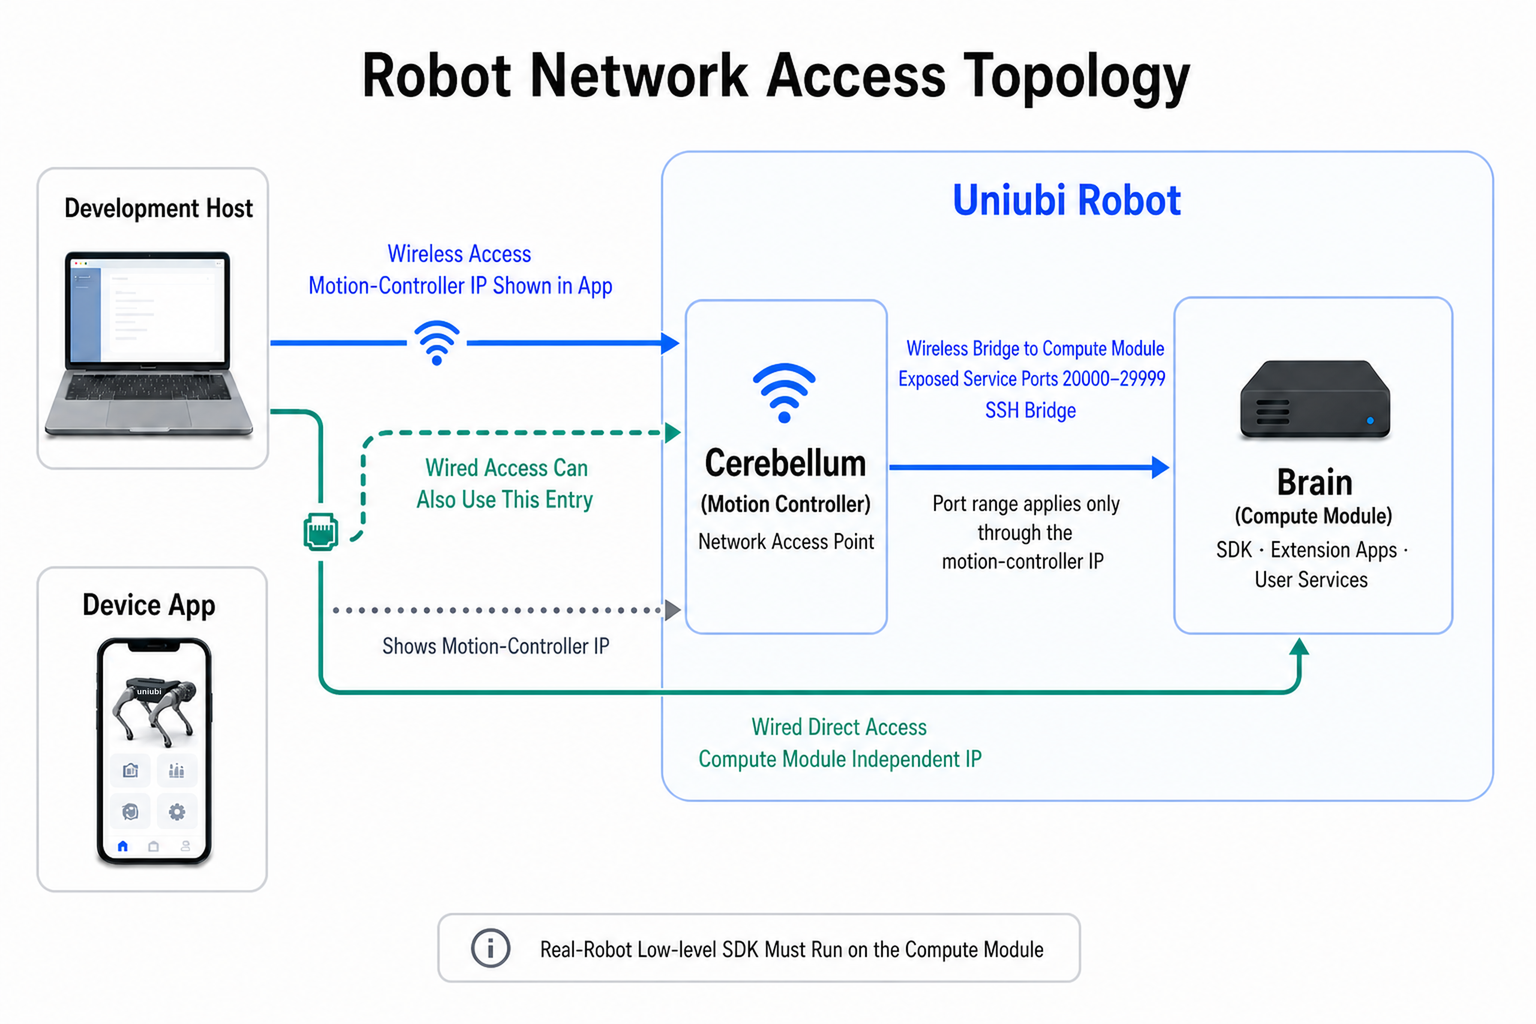
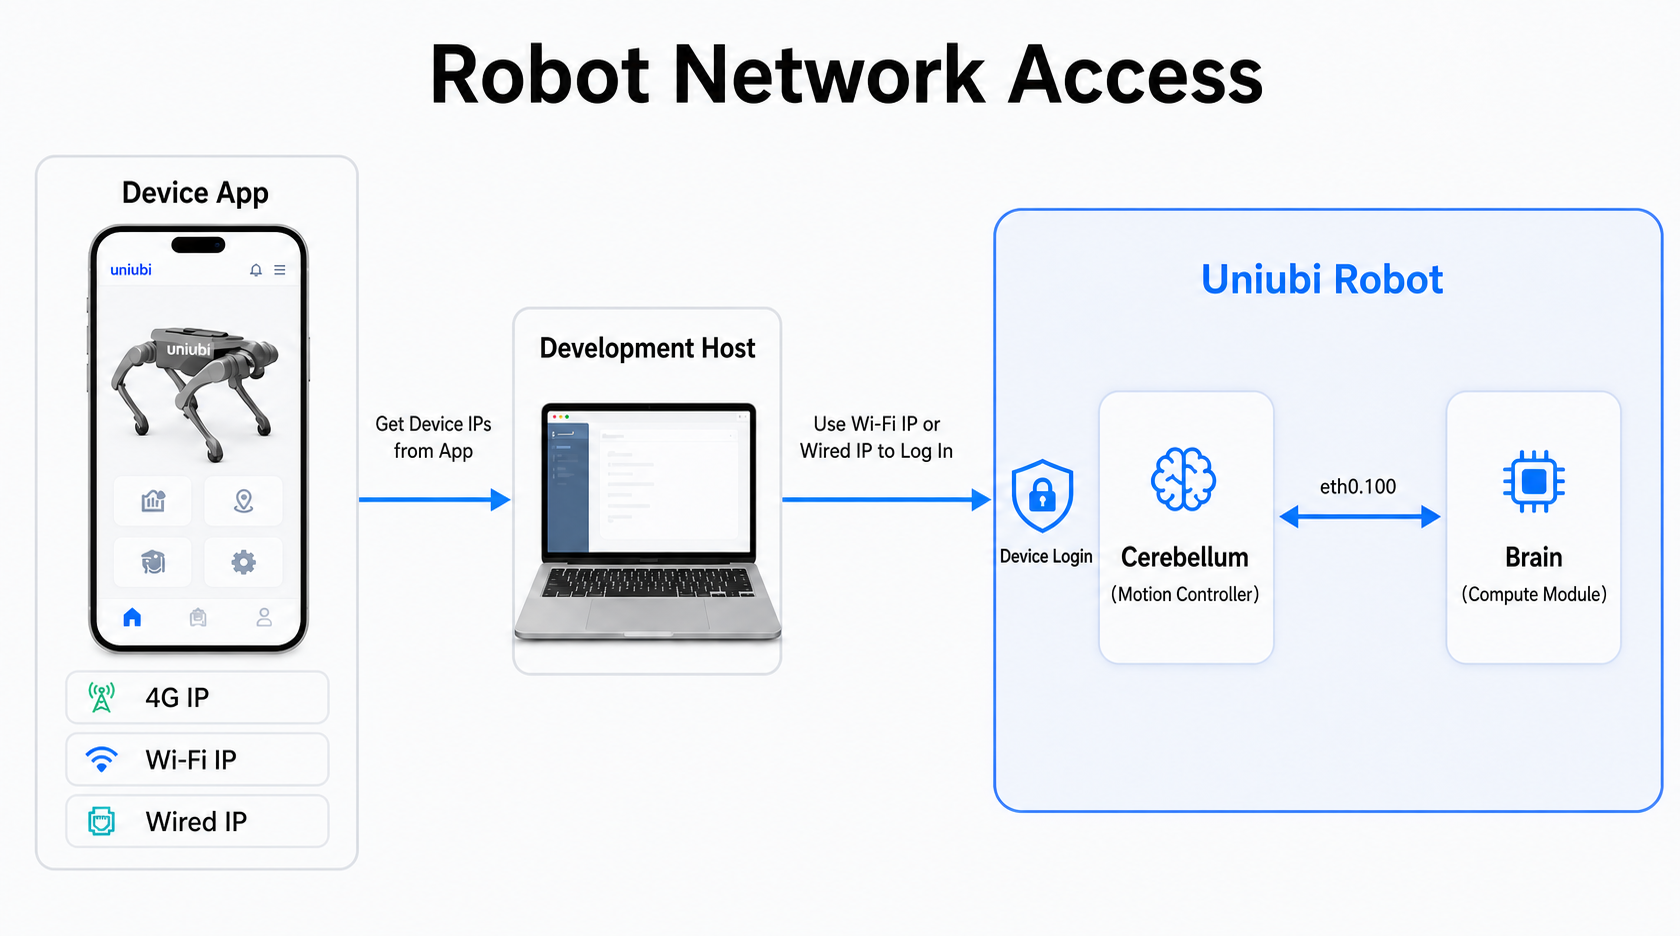
docs: revise robot network access guidance

diff --git a/docs/core-concepts/device-network.md b/docs/core-concepts/device-network.md
@@ -1,46 +1,44 @@
-# Device Network and Robot Compute Module Access
+# Robot Network Access
 
 **English** | [简体中文](device-network.zh-CN.md)
 
-A Uniubi robot includes a cerebellum (motion controller) for standard functions such as core motion control, remote-controller input, and UWB, plus a brain (compute module) that provides greater general-purpose compute for extension applications. See [Brain and Cerebellum](README.md#1-brain-and-cerebellum) for the full responsibility boundary. Accessing the compute module works essentially the same over wireless and wired connections; the difference is that the compute module can also have its own IP address when wired.
+Before connecting to a real robot, use the device app to obtain its current 4G, Wi-Fi, and wired IP information. A development host can use the Wi-Fi IP or wired IP to log in to the device. Login accounts and authentication methods are determined by the device delivery configuration.
 
-## Network Topology
+## Network Access
 
-The diagram shows only the access paths developers need to understand. It intentionally omits the robot's internal network, interfaces, and implementation details:
+The diagram shows only the developer-facing access flow and the communication interface between the robot's brain and cerebellum. It does not represent the robot's internal network routing:
 
-![Robot network access topology](images/device-network-topology.en.png)
+![Robot network access](images/device-network-topology.en.png)
 
-> Network reachability does not change control deployment requirements. The real-robot Low-level SDK must still run on the robot's compute module.
+## Getting Device IPs from the App
 
-| Connection | Available address | Notes |
-|---|---|---|
-| Wireless | Motion-controller IP shown in the app | Access to the compute module is bridged through the motion controller |
-| Wired | Motion-controller IP shown in the app, or the compute module's own wired IP | Access operations stay the same; the compute module's independent IP is also available |
+| Network information in the app | Use |
+|---|---|
+| 4G IP | Shows the device's current 4G network information; this guide does not use it as a development-host login address |
+| Wi-Fi IP | A development host can use this address to log in to the device |
+| Wired IP | A development host can use this address to log in to the device |
 
-## Wireless Connection
+IP addresses can change with the network currently connected to the device. Before each real-robot session, use the current values shown in the app instead of keeping an address hard-coded in scripts or configuration.
 
-The compute module does not expose an independent wireless IP. When the robot is connected over Wi-Fi, the app displays the motion-controller IP, and only selected compute-module ports are reachable through that address.
+## Logging In from a Development Host
 
-- Use the device's exposed **20000–29999** port range for services that must be reached over the wireless bridge.
-- Do not assume that every listening port on the compute module is reachable over Wi-Fi.
-- SSH access to the compute module is bridged through the motion controller. Use the IP displayed in the app as the SSH address.
+1. Confirm the current Wi-Fi IP or wired IP in the app.
+2. Make sure the development host can reach the corresponding network.
+3. Log in to the device using the selected IP.
 
-SSH users, keys, and passwords are determined by the device delivery configuration. Never place credentials in a public repository or example command.
+Login users, keys, and passwords are determined by the device delivery configuration. Never place credentials in a public repository or example command.
 
-## Wired Connection
+## Externally Accessible Service Ports
 
-On a wired network, the compute module can obtain its own IP address, giving the development machine an additional address for direct access. Operations such as SSH and service access are essentially the same as with a wireless connection.
+- User services that must be reached from outside the device should use the **`20000–29999`** port range.
+- Other ports are reserved for internal device services. User applications should not occupy them or assume that they are reachable from outside the device.
 
-If the wired IP is unknown, first SSH through the motion-controller IP shown in the app, then run this command on the compute module:
+The port range may change with the product configuration. Follow the current device documentation and delivery configuration when deploying a service.
 
-```bash
-ip -br -4 addr
-```
+## Brain-to-Cerebellum Communication
 
-Use the IPv4 address of the active wired interface. Both the motion-controller IP displayed in the app and the compute module's wired IP can serve as access points, but they are different addresses.
+Inside the robot, the brain and cerebellum communicate bidirectionally through `eth0.100`.
 
-## Choosing an Address During Development
-
-- When reaching a compute-module service through the motion-controller IP shown in the app, use a port in the device's exposed `20000–29999` range.
-- With a wired connection, either keep using the existing access point or use the compute module's independent IP; the application-level operations do not change.
-- When an SDK or DDS program requires an explicit network interface, select the interface that actually reaches the robot. Use `ip -br addr` to determine its name.
+- When a High-level SDK or DDS program runs on the robot's brain, it must explicitly select `eth0.100` to communicate with the cerebellum.
+- When a High-level program runs on an external computer, select the interface on that computer that actually reaches the robot network; do not configure `eth0.100` there.
+- The real-robot Low-level SDK must still run on the robot's brain. Network reachability does not change this deployment requirement.

diff --git a/docs/core-concepts/device-network.zh-CN.md b/docs/core-concepts/device-network.zh-CN.md
@@ -1,46 +1,44 @@
-# 设备网络与大脑访问
+# 机器人网络接入
 
 [English](device-network.md) | **简体中文**
 
-Uniubi 机器狗的小脑负责核心运动控制、遥控器、UWB 等标准功能，大脑提供更强的通用算力并承载扩展应用。两者的完整职责分工见 [大脑与小脑](README.zh-CN.md#1-大脑与小脑)。无线和有线连接下，访问大脑的操作方式基本一致；区别在于有线连接时，大脑还可以拥有独立 IP。
+连接真实机器人前，先从设备 App 获取当前的 4G、Wi-Fi 和有线 IP 信息。开发机可以使用 Wi-Fi IP 或有线 IP 登录设备；具体账号和认证方式由设备交付配置决定。
 
-## 网络拓扑
+## 网络接入
 
-下图只描述开发者需要理解的访问路径，不展开设备内部网络、接口和实现细节：
+下图只描述开发者需要理解的接入流程，以及机器人内部大小脑之间的通信接口；不表示设备内部的实际网络路由：
 
-![机器人网络访问拓扑](images/device-network-topology.zh-CN.png)
+![机器人网络接入](images/device-network-topology.zh-CN.png)
 
-> 网络可达性不等同于控制部署位置。真机 Low-level SDK 仍必须运行在机器人“大脑”侧。
+## 从 App 获取设备 IP
 
-| 连接方式 | 可使用的地址 | 说明 |
-|---|---|---|
-| 无线 | App 中显示的小脑 IP | 通过小脑桥接访问大脑 |
-| 有线 | App 中显示的小脑 IP，或大脑自己的有线 IP | 访问操作不变；可额外使用大脑的独立 IP |
+| App 中的网络信息 | 用途 |
+|---|---|
+| 4G IP | 查看设备当前的 4G 网络信息；本指南不将其作为开发机登录入口 |
+| Wi-Fi IP | 开发机可使用该地址登录设备 |
+| 有线 IP | 开发机可使用该地址登录设备 |
 
-## 无线连接
+IP 地址可能随设备当前连接的网络而变化。每次连接真机前，应以 App 中显示的当前值为准，不要在脚本或配置中长期写死地址。
 
-大脑本身不提供独立的无线 IP。机器狗通过无线网络连接时，App 中显示的是小脑 IP，外部设备不能通过该地址任意访问大脑的所有端口。
+## 从开发机登录设备
 
-- 需要在大脑上对外提供服务时，使用设备开放的 **20000–29999** 端口范围。
-- 不要假设大脑上的其它监听端口能够通过无线网络访问。
-- 大脑的 SSH 登录由小脑桥接；如需登录大脑，可使用 App 中显示的小脑 IP 作为 SSH 地址。
+1. 在 App 中确认当前 Wi-Fi IP 或有线 IP。
+2. 确保开发机能够访问对应网络。
+3. 使用所选 IP 登录设备。
 
-具体 SSH 用户、密钥或密码由设备交付配置决定，不应写入公开仓库或示例命令。
+具体登录账号、密钥或密码由设备交付配置决定，不应写入公开仓库或示例命令。
 
-## 有线连接
+## 对外服务端口
 
-连接有线网络后，大脑可以获得自己独立的有线 IP，为开发机增加一个可直接使用的访问地址。SSH、服务访问等操作方式与无线连接时没有本质区别。
+- 需要从设备外部访问的用户服务，应使用 **`20000–29999`** 端口范围。
+- 其他端口为设备内部服务预留，不应由用户应用占用，也不应假设这些端口可以从设备外部访问。
 
-如果不知道大脑的有线 IP，可先使用 App 中显示的小脑 IP，通过 SSH 登录大脑，再在大脑上执行：
+端口范围可能随产品配置调整，使用时以当前设备文档和交付配置为准。
 
-```bash
-ip -br -4 addr
-```
+## 大脑与小脑通信
 
-根据实际接入的有线网卡及其 `UP` 状态确认 IPv4 地址。App 中显示的小脑 IP 和大脑的有线 IP 都可作为访问入口，但二者不是同一个地址。
+机器人内部的“大脑”和“小脑”通过 `eth0.100` 双向通信。
 
-## 开发时如何选择地址
-
-- 通过 App 中显示的小脑 IP 访问大脑服务时，将服务端口配置在设备开放的 `20000–29999` 范围内。
-- 有线连接时，可以继续使用原有访问入口，也可以使用大脑的独立 IP；应用层操作方式不需要改变。
-- SDK 或 DDS 程序需要显式指定网卡时，应选择当前实际与机器狗通信的接口；网卡名以 `ip -br addr` 的输出为准。
+- High-level SDK 或 DDS 程序运行在机器人“大脑”侧时，必须显式指定 `eth0.100`，才能与“小脑”通信。
+- High-level 程序运行在外部电脑时，应选择该电脑上实际连接机器人网络的网卡，不应配置 `eth0.100`。
+- 真机 Low-level SDK 仍必须运行在机器人“大脑”侧；网络可达性不会改变这一部署要求。

diff --git a/docs/core-concepts/README.md b/docs/core-concepts/README.md
@@ -47,12 +47,12 @@ flowchart LR
 
 > The real-robot Low-level SDK must run on the robot's brain. It does not support direct hardware control from an external PC.
 
-## 2. Device Network and Robot Compute Module Access
+## 2. Robot Network Access
 
-Before connecting to a real robot, understand the wireless-bridge and wired-direct access paths, then confirm the target IP address, exposed ports, and network interface.
-A High-level application can connect to a real robot from an external computer or the robot's compute module. A real-robot Low-level SDK application must run on the compute module.
+Before connecting to a real robot, obtain its 4G, Wi-Fi, and wired IP information from the app. A development host can use the Wi-Fi IP or wired IP to log in to the device; externally accessible user services use the designated port range.
+Inside the robot, the brain and cerebellum communicate through `eth0.100`. A High-level application can run on an external computer or the robot's brain. A real-robot Low-level SDK application must run on the brain.
 
-[Read Device Network and Robot Compute Module Access](device-network.md)
+[Read Robot Network Access](device-network.md)
 
 ## 3. Body Coordinate System and Default Stance
 

diff --git a/docs/core-concepts/README.zh-CN.md b/docs/core-concepts/README.zh-CN.md
@@ -47,12 +47,12 @@ flowchart LR
 
 > 真机 Low-level SDK 必须部署在机器人“大脑”侧运行，不支持从外部 PC 远程直连硬件。
 
-## 2. 设备网络与大脑访问
+## 2. 机器人网络接入
 
-连接真机前，需要先明确无线桥接和有线直连的访问路径，并确认目标 IP、开放端口和通信网卡。
-High-level 可从外部电脑或机器人“大脑”连接真机；真机 Low-level SDK 必须运行在“大脑”侧。
+连接真机前，先从 App 获取 4G、Wi-Fi 和有线 IP 信息。开发机可使用 Wi-Fi IP 或有线 IP 登录设备；需要对外提供的用户服务使用规定的开放端口范围。
+机器人内部的“大脑”和“小脑”通过 `eth0.100` 通信。High-level 可运行在外部电脑或机器人“大脑”侧；真机 Low-level SDK 必须运行在“大脑”侧。
 
-[阅读设备网络与大脑访问](device-network.zh-CN.md)
+[阅读机器人网络接入](device-network.zh-CN.md)
 
 ## 3. 机身坐标系与默认站姿
 

diff --git a/docs/how-to/sdk-first-use.md b/docs/how-to/sdk-first-use.md
@@ -20,7 +20,7 @@ Joint-level Low-level control uses `MotionLowLevelClient`. ROS 2 Motion Bridge d
 ## Prerequisites
 
 - A Linux environment and SDK runtime libraries for the target architecture
-- A confirmed connection method, target address, exposed ports, and robot-facing network interface; see [Device Network and Robot Compute Module Access](../core-concepts/device-network.md)
+- Device IPs obtained from the app, plus a confirmed login address, externally accessible service ports, and robot-facing network interface; see [Robot Network Access](../core-concepts/device-network.md). External High-level mode must use the interface that actually reaches the robot network; onboard High-level mode must select `eth0.100`
 - Root privileges when running SDK programs on current devices; C++ compilation itself does not require `sudo`
 - Matching C++ SDK, Python binding, architecture, version, and ABI
 - Completion of the [Build, Installation, and Cross-compilation Guide](../BUILD.md)

diff --git a/docs/how-to/sdk-first-use.zh-CN.md b/docs/how-to/sdk-first-use.zh-CN.md
@@ -20,7 +20,7 @@ Low-level 关节控制使用 SDK 的 `MotionLowLevelClient`。ROS 2 Motion Bridg
 ## 前置条件
 
 - Linux 环境，以及目标架构对应的 SDK 运行库。
-- 已按 [设备网络与大脑访问](../core-concepts/device-network.zh-CN.md) 确认当前连接方式、目标 IP、可用端口和通信网卡。
+- 已按 [机器人网络接入](../core-concepts/device-network.zh-CN.md) 从 App 获取当前设备 IP，并确认登录地址、对外服务端口和通信网卡。外部 High-level 模式必须选择实际连接机器人网络的网卡；大脑侧 High-level 模式必须指定 `eth0.100`。
 - 当前设备运行 SDK 程序需要 root 权限；C++ 构建不要求 `sudo`，Python SDK 在大脑上直接安装到系统 `python3`，运行示例时按对应 README 使用 `sudo env` 保留动态库环境。
 - C++ SDK 与 Python binding 使用同一套 ABI、架构和版本。
 - 先阅读 [构建、安装和交叉编译](../BUILD.zh-CN.md)。

diff --git a/docs/how-to/README.md b/docs/how-to/README.md
@@ -25,7 +25,7 @@ ROS 2 Motion Bridge does not provide an equivalent joint-level Low-level interfa
 
 | Task | Guide | When to use it |
 |---|---|---|
-| Confirm device addresses, exposed ports, and compute-module access | [Device network and compute-module access](../core-concepts/device-network.md) | Before connecting to a real robot |
+| Obtain device IPs from the app and confirm the login address and service ports | [Robot network access](../core-concepts/device-network.md) | Before connecting to a real robot |
 | Prepare the build environment | [Build, installation, and cross-compilation](../BUILD.md) | Before SDK or ROS 2 development |
 | Prepare an SDK project | [SDK first use](sdk-first-use.md) | After selecting High-level or Low-level SDK development |
 | Write a ROS 2 application node | [Start and validate Motion Bridge](ros2-motion-bridge.md) | After selecting High-level + ROS 2 |

diff --git a/README.md b/README.md
@@ -8,7 +8,7 @@ Uniubi Docs is the central documentation site for developing with Uniubi robots.
 
 Choose a control mode first, then choose an implementation. Do not begin by choosing a programming language or repository.
 
-> Before connecting to a real robot, read [Device Network and Robot Compute Module Access](docs/core-concepts/device-network.md) to confirm the wireless or wired access point, target IP address, exposed ports, and network interface. Skip this when working only with Mock / Sim2Sim, offline builds, or training.
+> Before connecting to a real robot, read [Robot Network Access](docs/core-concepts/device-network.md) to obtain the device IPs from the app and confirm the login address, externally accessible service ports, and network interface. Skip this when working only with Mock / Sim2Sim, offline builds, or training.
 
 ### 1. Choose a control mode
 

diff --git a/docs/how-to/README.zh-CN.md b/docs/how-to/README.zh-CN.md
@@ -25,7 +25,7 @@
 
 | 任务 | 导读 | 适用阶段 |
 |---|---|---|
-| 确认设备 IP、端口和大脑访问方式 | [设备网络与大脑访问](../core-concepts/device-network.zh-CN.md) | 连接真实机器人之前 |
+| 从 App 获取设备 IP，并确认登录地址和服务端口 | [机器人网络接入](../core-concepts/device-network.zh-CN.md) | 连接真实机器人之前 |
 | 准备构建和安装环境 | [构建、安装和交叉编译](../BUILD.zh-CN.md) | 进入 SDK 或 ROS 2 之前 |
 | SDK 通用准备 | [SDK 通用准备](sdk-first-use.zh-CN.md) | 已选 High-level 或 Low-level，准备使用 SDK |
 | 编写 ROS 2 业务节点 | [启动并验证 Motion bridge](ros2-motion-bridge.zh-CN.md) | 已选择 High-level + ROS 2 |
